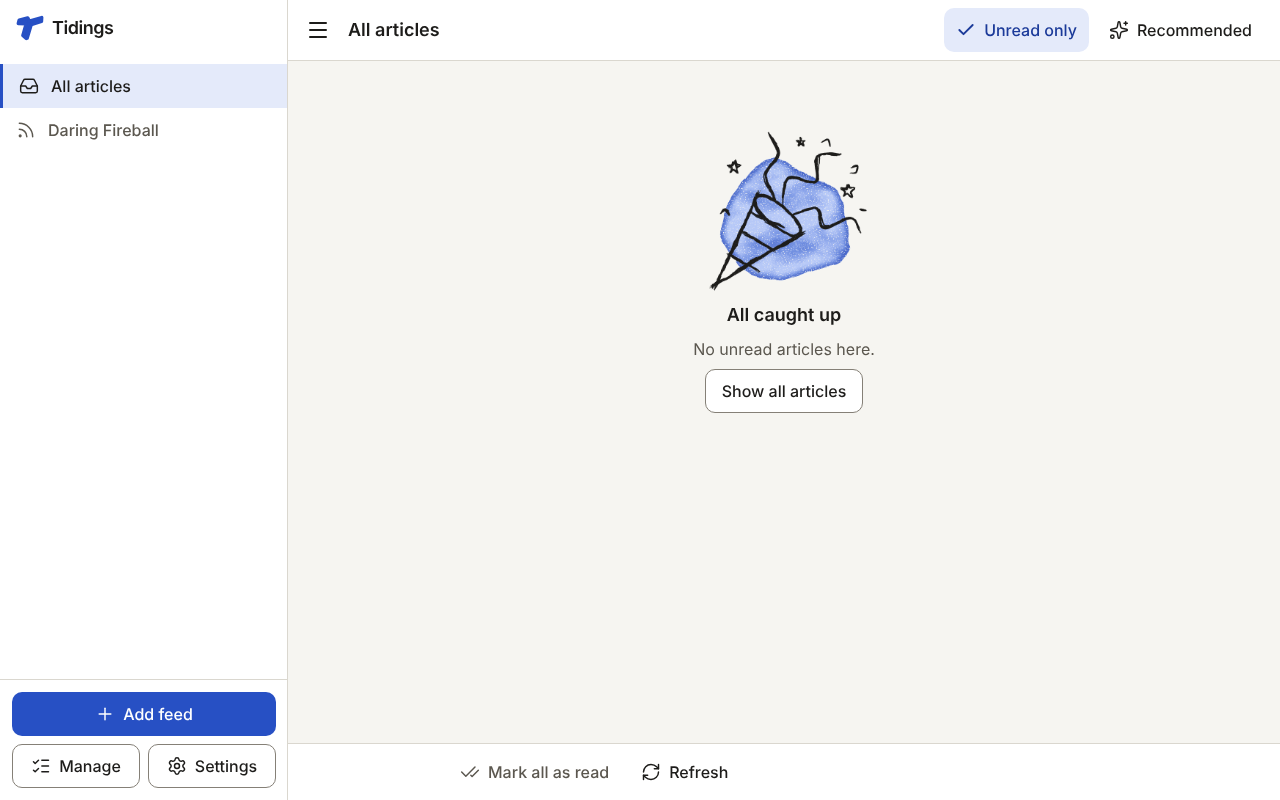
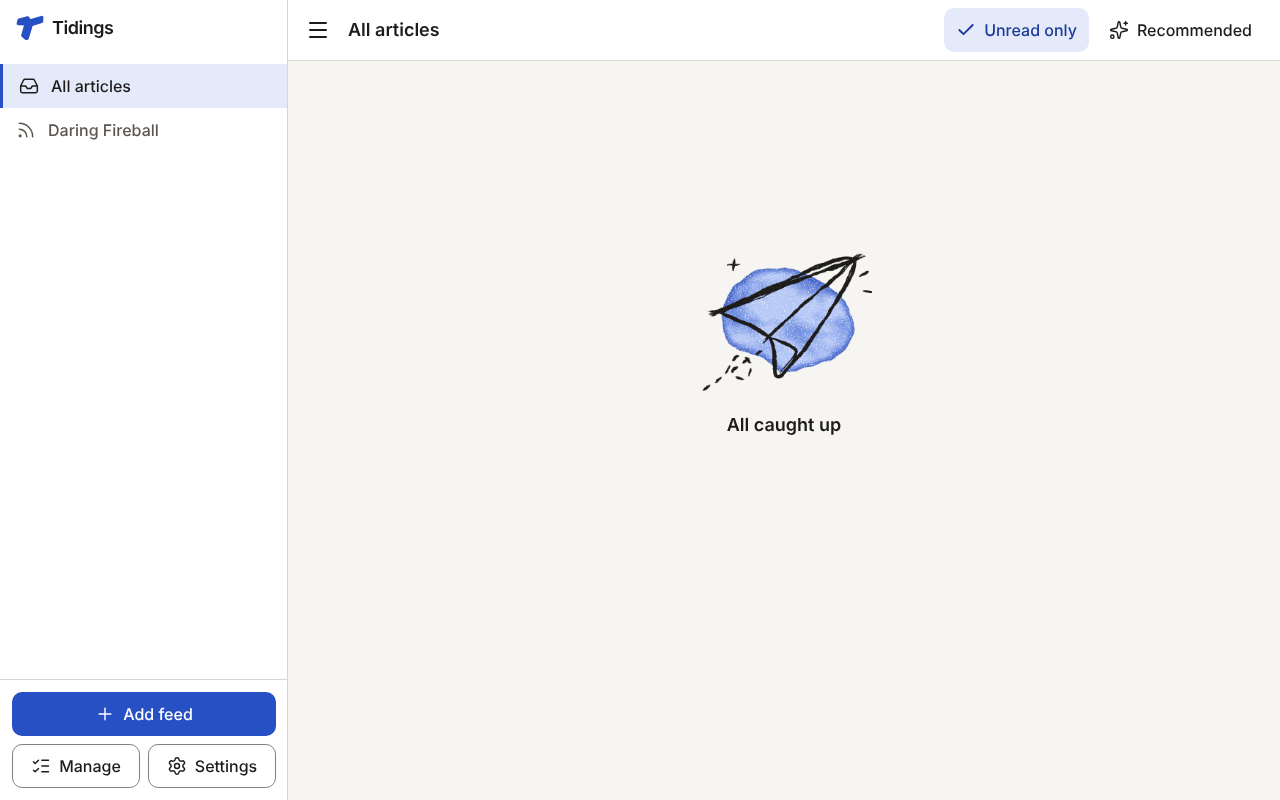
TID-073: Centre the caught-up state, drop its copy and button, hide the bottom bar on empty lists
Claude-Session: https://claude.ai/code/session_01NbhkL8UQSEDXj7zvYhp7qd

Changed region(s): [[0.5625, 0.1562, 0.6875, 0.5625], [0.375, 0.9375, 0.4688, 0.9688], [0.5, 0.9375, 0.5625, 0.9688]]

diff --git a/apps/web/src/lists/ArticleList.tsx b/apps/web/src/lists/ArticleList.tsx
@@ -46,7 +46,13 @@ function State({
   children?: ReactNode;
 }) {
   return (
-    <div className="px-2 py-10 text-center">
+    <div
+      className={`px-2 text-center ${
+        art
+          ? 'flex min-h-[calc(100dvh-var(--header-h,4rem)-var(--bar-h,0px)-2rem)] flex-col items-center justify-center pb-10 lg:min-h-[70vh]'
+          : 'py-10'
+      }`}
+    >
       {art && <CaughtUpArt />}
       <h2 className="text-lg font-semibold text-fg">{title}</h2>
       <div className="mt-2 flex flex-col items-center gap-2 text-base text-fg-muted">
@@ -87,13 +93,11 @@ function Empty({
   state,
   subscription,
   noSubscriptions,
-  onShowAll,
 }: {
   view: EntryListView;
   state: EntryListState;
   subscription: Subscription | undefined;
   noSubscriptions: boolean;
-  onShowAll: () => void;
 }) {
   if (noSubscriptions) {
     return (
@@ -142,12 +146,8 @@ function Empty({
   }
   if (state === 'unread') {
     return (
-      <State title="All caught up" art>
-        <p>No unread articles here.</p>
-        <button type="button" onClick={onShowAll} className={BUTTON}>
-          Show all articles
-        </button>
-      </State>
+      // Owner, 2026-11-21: just the picture and the title; Unread only in the header shows the rest.
+      <State title="All caught up" art />
     );
   }
   return (
@@ -272,6 +272,13 @@ export function ArticleList({
   const subscription = view === 'feed' ? subscriptions.data?.find((s) => s.id === id) : undefined;
   const now = Date.now();
 
+  // Nothing to list: no bottom bar either (owner, 2026-11-21); pull to refresh still works.
+  const isEmpty =
+    !notFound &&
+    !entries.isPending &&
+    !(entries.isError && !entries.data) &&
+    items.length === 0 &&
+    !hasNextPage;
   let body: ReactNode;
   if (notFound) {
     body = (
@@ -295,14 +302,13 @@ export function ArticleList({
         </button>
       </State>
     );
-  } else if (items.length === 0 && !hasNextPage) {
+  } else if (isEmpty) {
     body = (
       <Empty
         view={view}
         state={state}
         subscription={subscription}
         noSubscriptions={view === 'all' && subscriptions.data?.length === 0}
-        onShowAll={() => setState('all')}
       />
     );
   } else {
@@ -387,26 +393,28 @@ export function ArticleList({
           </button>
         )}
       </HeaderActions>
-      <BottomBar>
-        <button
-          type="button"
-          onClick={() => (toMark > MARK_ALL_CONFIRM_OVER ? setConfirming(true) : markAll())}
-          disabled={!asOf || toMark === 0}
-          className="inline-flex min-h-11 items-center gap-2 rounded-md px-3 text-base font-medium text-fg active:bg-sunken disabled:text-fg-muted"
-        >
-          <CheckCheck aria-hidden="true" className="size-5" strokeWidth={1.75} />
-          Mark all as read
-        </button>
-        <button
-          type="button"
-          onClick={() => void refresh()}
-          disabled={pull === 'refreshing'}
-          className="inline-flex min-h-11 items-center gap-2 rounded-md px-3 text-base font-medium text-fg active:bg-sunken disabled:text-fg-muted"
-        >
-          <RefreshCw aria-hidden="true" className="size-5" strokeWidth={1.75} />
-          Refresh
-        </button>
-      </BottomBar>
+      {!isEmpty && (
+        <BottomBar>
+          <button
+            type="button"
+            onClick={() => (toMark > MARK_ALL_CONFIRM_OVER ? setConfirming(true) : markAll())}
+            disabled={!asOf || toMark === 0}
+            className="inline-flex min-h-11 items-center gap-2 rounded-md px-3 text-base font-medium text-fg active:bg-sunken disabled:text-fg-muted"
+          >
+            <CheckCheck aria-hidden="true" className="size-5" strokeWidth={1.75} />
+            Mark all as read
+          </button>
+          <button
+            type="button"
+            onClick={() => void refresh()}
+            disabled={pull === 'refreshing'}
+            className="inline-flex min-h-11 items-center gap-2 rounded-md px-3 text-base font-medium text-fg active:bg-sunken disabled:text-fg-muted"
+          >
+            <RefreshCw aria-hidden="true" className="size-5" strokeWidth={1.75} />
+            Refresh
+          </button>
+        </BottomBar>
+      )}
       {confirming && (
         <Sheet
           title={`Mark ${formatCount(toMark)} articles as read?`}

diff --git a/apps/web/src/lists/ArticleList.test.tsx b/apps/web/src/lists/ArticleList.test.tsx
@@ -397,13 +397,17 @@ describe('AC7: empty states', () => {
     );
   });
 
-  it('nothing unread: "All caught up", and Show all articles switches to All', async () => {
+  it('nothing unread: "All caught up" only, no button, no bottom bar; Unread only shows the rest', async () => {
     api.set(ENTRIES('all', 'unread'), page([]));
     api.set(ENTRIES('all', 'all'), page([entry(5, { isRead: true })]));
     renderApp('/all');
     expect(await screen.findByText('All caught up')).toBeInTheDocument();
-    await userEvent.click(screen.getByRole('button', { name: 'Show all articles' }));
+    expect(screen.queryByText('No unread articles here.')).not.toBeInTheDocument();
+    expect(screen.queryByRole('button', { name: 'Show all articles' })).not.toBeInTheDocument();
+    expect(screen.queryByRole('button', { name: /Mark all as read/ })).not.toBeInTheDocument();
+    await userEvent.click(screen.getByRole('button', { name: 'Unread only' }));
     expect(await screen.findByText('Title 5')).toBeInTheDocument();
+    expect(screen.getByRole('button', { name: /Mark all as read/ })).toBeInTheDocument();
   });
 
   it('"All caught up" shows one illustration from the set (TID-073)', async () => {

diff --git a/apps/web/src/lists/MarkAllRead.test.tsx b/apps/web/src/lists/MarkAllRead.test.tsx
@@ -292,12 +292,12 @@ describe('a failed mark all', () => {
     expect(client.getQueryData<Counts>(['counts'])?.total).toBe(3);
   });
 
-  it('is disabled while there is nothing unread', async () => {
+  it('is not shown while there is nothing to list', async () => {
     api.set(ENTRIES('all'), page([]));
     api.set('GET /api/counts', counts(0));
     renderApp('/all');
     await screen.findByText('All caught up');
-    expect(markAllButton()).toBeDisabled();
+    expect(screen.queryByRole('button', { name: /Mark all as read/ })).not.toBeInTheDocument();
   });
 });
 

diff --git a/e2e/specs/tid-018-article-lists.spec.ts b/e2e/specs/tid-018-article-lists.spec.ts
@@ -45,7 +45,7 @@ test('AC1: the three views show their own articles, newest first', async ({ page
   await page.goto('/feeds/s2');
   await expect(page.getByRole('heading', { level: 1, name: 'Loose Feed' })).toBeVisible();
   await expect(page.getByText('All caught up')).toBeVisible();
-  await page.getByRole('button', { name: 'Show all articles' }).click();
+  await page.getByRole('button', { name: 'Unread only' }).click();
   await expect(rows).toHaveText(['Already read']);
 });
 

diff --git a/e2e/specs/tid-020-mark-all-read.spec.ts b/e2e/specs/tid-020-mark-all-read.spec.ts
@@ -52,7 +52,7 @@ test('AC1, AC3, AC5: a folder asks first, marks only its entries, and Undo resto
   await expect(page.getByRole('link', { name: /Item 9600/ })).toBeVisible();
 
   await page.goto('/folders/f1');
-  await page.getByRole('button', { name: 'Show all articles' }).click();
+  await page.getByRole('button', { name: 'Unread only' }).click();
   await expect(page.getByRole('link', { name: /Item 9500/ })).toBeVisible();
 });
 
